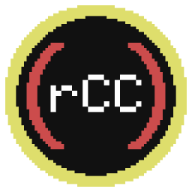
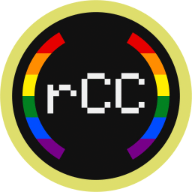
oh hey its gay now

diff --git a/index.html b/index.html
@@ -7,20 +7,19 @@
         <link rel="icon" type="image/png" sizes="16x16" href="/favicon-16x16.png">
         <link rel="stylesheet" href="style.css">
         <link rel="stylesheet" href="index.css">
-        <link rel="preload" href="rCC_Full.webp" as="image">
+        <link rel="preload" href="full-lgbtq.png" as="image">
         <link rel="preload" href="backgrounds/compressed/2-blur.webp" as="image">
         <link rel="preload" href="backgrounds/compressed/1-blur-more.webp" as="image">
         <link rel="preload" href="Monocraft.woff2" as="font">
         <!--Credits:
             Font: https://github.com/IdreesInc/Minecraft-Font
         -->
-        <script defer src="https://umami.knijn.one/script.js" data-website-id="c8c54dc3-14ad-49d3-b3a6-c91233089bac"></script>
         <meta name="viewport" content="width=device-width, initial-scale=1">
         <meta name="darkreader-lock"> <!--Breaks button textures-->
         <meta name="description" content="ReconnectedCC Website">
     </head>
     <body>
-        <img src="rCC_Full.webp" alt="ReconnectedCC Logo" class="logo">
+        <img src="full-lgbtq.png" alt="ReconnectedCC Logo" class="logo">
 
         <div class="mc-menu">
             <a class="mc-button full highlight" href="install.html">Download Modpack</a>

diff --git a/index.css b/index.css
@@ -1,7 +1,7 @@
 body {
 	height: 100vh;
 	flex-direction: column;
-	background: #111 url('backgrounds/compressed/2-blur.webp');
+	background: #111 url('backgrounds/compressed/1-blur.webp');
 	background-size: cover;
 	background-position: center;
 	position: relative;
